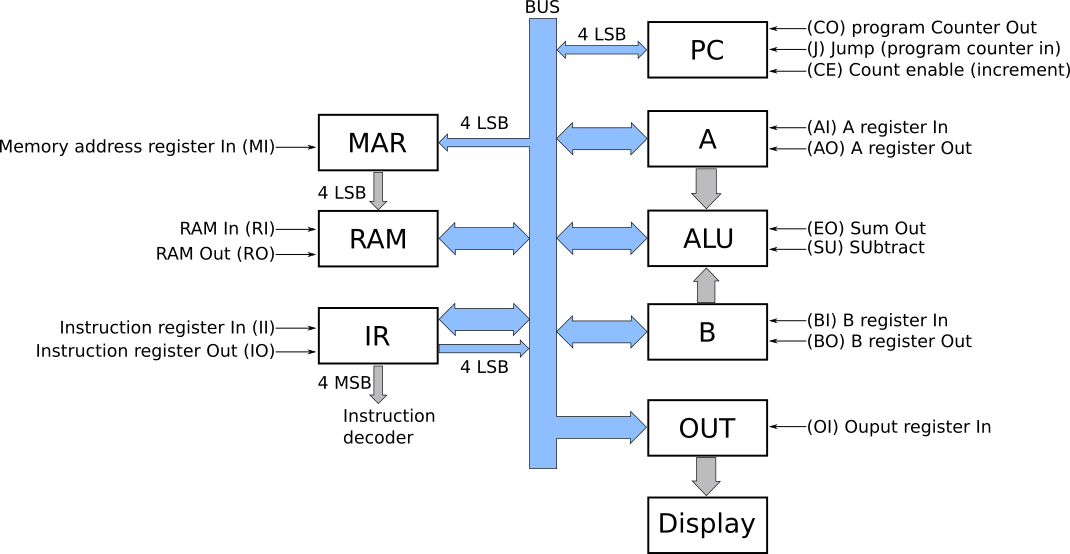
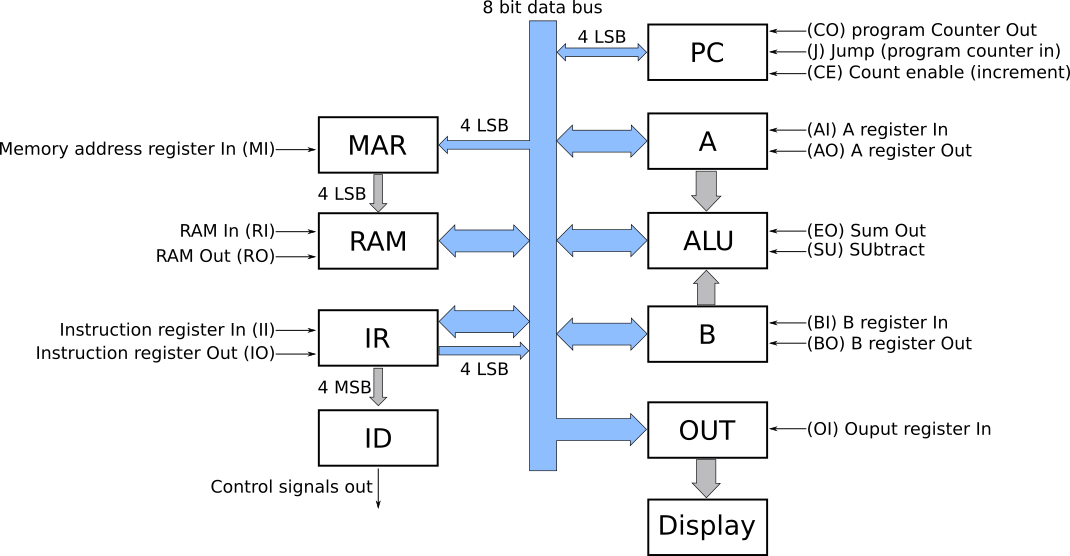
update

diff --git a/content/posts/2021-10-8-bit-breadboard-cpu.md b/content/posts/2021-10-8-bit-breadboard-cpu.md
@@ -6,10 +6,10 @@ draft: true
 
 This month I finally finished building my version of Ben Eater's 8-bit
 breadboard computer. This computer is based on amazing work done by Ben Eater.
-More information about this project you can find on his
-[website](https://eater.net/8bit/). In this blog post I will give you a summary
-of the computer and how it works.  I also describe my experience and some issues
-I faced when building this.  Below is a picture of my build.
+You can find more information about this project on his
+[website](https://eater.net/8bit/). In this blog post I will give you a short summary
+of the computer and how it works in a high level. I also describe my experience and some issues
+I faced when building in the process. Below is a picture of my final build.
 
 ![computer](/cpu/computer.jpg)
 
@@ -23,7 +23,7 @@ troubleshooting.
 You may ask why would you want build something like this? Here are couple of
 things why I got so hooked into this in the first place:
 
-* learn how CPU works on low level,
+* learn how CPU really works,
 * learn about microcode and what it is,
 * learn how binary code is actually executed by the hardware,
 * you will have much better picture of the whole software stack all way to the
@@ -35,24 +35,15 @@ very good project to give a try. You will get much better picture how CPU
 operates in general. Then when you read about more advanced CPU features like
 instruction pipelining, they become easier to grasp. At least that was the case
 for me that this project really helped me to fill the knowledge gaps that I
-didn't fully understand.
+didn't fully understand. That might also be because I am a software developer and
+not a hardware guy.
 
 ## Architecture
 
-TODO: Finish this section
-
 Below is picture of the architecture of
-the computer. Photo is drawn by me but taken from Ben's video.
+the computer and a table of its components and their explanation.
 
 ![Architecture](/cpu/architecture.png)
-
-Architecture of the CPU consist of different parts connected to each other by
-data bus. Data bus is used to transport data between different components.
-Arrows in the picture show the direction the data can move to.  For proper
-operation of the CPU, only one component feed data to the bus and one will read
-it. Orchestrating this is done by `Instruction Decoder` and
-[microcode](https://en.wikipedia.org/wiki/Microcode). Below is table of
-different parts of the computer and their explanation.
 
 | Acronym | Expanded | Explanation |
 |---|---|---|
@@ -64,31 +55,65 @@ different parts of the computer and their explanation.
 | B | B register | 8 bit register to hold the second operand for addition and subtraction.
 | ALU | Arithmetic Logic Unit | Unit doing the addition or subtraction operation with content of A and B registers and put the result back to A register.
 | OUT | Ouput register | 8 bit register to hold value to be displayed by seven-segment display.
+| ID | Instruction Decoder | Decode 4 bit instruction code in IR and control different part of the computer accordingly.
 | Display | -- | Seven-segment display to display numbers.
 
-Full bus connection is 8 bits and
-some components only connect 4 [least
-significant bits (LSB)](https://en.wikipedia.org/wiki/Bit_numbering). These 4
-LSB bits with `Memory Address Register` and `Program Counter` are used for
-addressing the RAM. Four bits from `Instruction Register` are used for
-instruction parameter. Using 4 bits for address means that computer can address
-only 16 bytes of RAM. This RAM needs to contain both program instructions and
-program data.
+Architecture of the computer consist of different components (rectangles) which are connected to each other by
+data bus (blue arrows). Data bus is used to transport binary data between
+different components and arrows signify the direction. Gray arrows are
+interconnections between some of the components and are independent of the data
+bus. On each clock cycle only one component can feed data to the bus and one or
+more read from it. Orchestrating this is crucial for proper operation of the
+computer. This is the job of instruction decoder which will control other
+components when they feed data to bus or read from it. Instruction decoder
+connects to all other components with control signals, which are all small incoming
+arrows to each component in the picture above.
 
+Data bus width is 8 bits and
+some components only connect 4 [Least
+Significant Bits (LSB)](https://en.wikipedia.org/wiki/Bit_numbering) to the data
+bus. These 4 bits with Memory Address Register are used for addressing the
+RAM.  Using only 4 bits for address means that computer can address only 16
+bytes of RAM in total. This amount of RAM needs to contain both program
+instructions and the program data.
 
+Instruction register connects 4 LSB bits back to bus and 4 [Most Significant
+Bits (MSB)](https://en.wikipedia.org/wiki/Bit_numbering) bits to instruction
+decoder. 4 LSB bits are used for instruction parameter and 4 MSB bits are used for
+instruction [opcode](https://en.wikipedia.org/wiki/Opcode) which are loaded to
+instruction decoder. Instruction decoder is responsible of decoding the
+current instruction and controlling other components using the control signals.
 
-This computer has only 4 bits to address the RAM. This means, you only have 16 bytes of
-RAM in total for the program and its data. 
+Instruction decoder behavior is programmed with
+[microcode](https://en.wikipedia.org/wiki/Microcode). Microcode is responsible
+for the logic how instructions are carried out with the available hardware.
+Microcode consist of steps which get executed on following clock cycles after
+currently executed instruction get loaded to the instruction register.  Thus
+meaning that in theory each instruction can take different amount of clock
+cycles to complete. However on this computer all instructions are fixed to be
+executed in 6 clock cycles. On each step microcode will instruct the components
+to do something. For example it can instruct RAM to output current address
+content to the bus and A register to read it from the bus. On next clock cycle
+it could change the RAM address and then on next clock cycle B register loaded
+with pointed value from the RAM. These operations continue until the whole
+instruction functionality is carried out and process begins again with loading a
+new instruction using the program counter.
 
-If you already watched Ben's video series you might notice that status register
-is missing from my build. This is because I ordered the parts for this build
-when that part was not finished yet. Thus I did not have the parts and
-considered my project done already at this point.
+If you have already watched Ben's video series, you might notice that status
+register is missing from my build. This is because I ordered the parts for this
+build when that part of the video series was not done yet. At this point I considered my
+project done already. I might come back to this in the future and
+finish it. What this component allows is use of conditional jump instructions.
+For example jump if not equal to zero.
+
+I know I'm omitting a lot of details here but instead of repeating everything
+here I recommend you to watch Ben's video series instead. A point here is to
+give an overall picture of the architecture.
 
 ## Instructions
 
-Machine instructions are 8 bits long. First four bits are the
-[opcode](https://en.wikipedia.org/wiki/Opcode) and last four are an argument for
+Machine instructions are 8 bits long. First 4 MSB bits are the
+[opcode](https://en.wikipedia.org/wiki/Opcode) and last 4 LSB bits are an argument for
 that instruction. Not all instructions take argument. Below is a table of all
 instructions that computer supports. `XXXX` means that that instruction does not
 take argument and bits does not matter.
@@ -106,7 +131,7 @@ take argument and bits does not matter.
 | HLT | 1111 | XXXX | Halt the computer and stop execution |
 
 With above simple instructions you could for example write a simple program
-that will keep adding 3 in the endless loop.
+that will keep adding 3 in the endless loop. Comments are done with semicolon.
 
 ```
 LDI 0   ;Load 0 to A register
@@ -115,8 +140,10 @@ OUT     ;Display A register value
 JMP 1   ;Jump back to ADD 15 instruction
 ```
 
-To program this we need to program RAM according the table below.
-Execution always starts at address 0.
+To be able to program this, we first need to convert our assembly to binary
+code. This can be done by hand with table above. After the assembly process, the
+program is shown in table below with the associated RAM addresses.  Execution of
+the program in this computer always starts at address 0.
 
 | Address | Value | Instruction |
 |---|---|---|
@@ -129,20 +156,28 @@ Execution always starts at address 0.
 
 Notice we need to set address 15 to have the value used by `ADD 15` instruction.
 Other addresses does not matter because they will never be read. Programming the
-computer is done by manually setting the bits of each address using DIP switches. Below how it looks like when working correctly.
+computer is done by manually setting the bits of each address using DIP
+switches. Below how it looks in action.
 
 ![Add 3 in a loop](/cpu/add3.gif)
 
+This will continue until the value overflows 255 and wraps back to 0. This is
+due the hardware limit of using 8 bit registers.
+
+At the moment computer only supports jump instruction and not conditional jumps.
+This is due to missing status register hardware which is required. This is
+missing from my build which I might add in the future as stated earlier.
+
 ## Power Delivery Problems
 
-Power delivery can be an issue depending on quality of the breadboards you are
-using. Meaning that even you supply 5V to the computer in one side. You will measure
+When doing your build, a power delivery can be an issue depending on the quality of the breadboards you are
+using. Meaning that even when you supply 5V to the computer in one side. You will measure
 around 3.5V on another side. This causes random logic level
 failures like reading signal low even it is supposed to be high, random bit
 flipping when poking the wires and the running program not working
-reliably. This is caused
-by loose connections between the jumper wires and the breadboard connectors.
-Multiply this effect many times and you will get a noticeable voltage drop.
+reliably. This is caused by loose connections between the jumper wires and the
+breadboard connectors. Multiply this effect many times and you will get a
+noticeable voltage drop.
 
 For my build I used the breadboards I ordered online labeled as BB830 brand from
 BusBoard. Which are supposed to be high quality breadboards. Ben also explains about this breadboard in his video
@@ -152,11 +187,12 @@ aligned numbering of columns and not properly labeled rows.
 
 Fortunately this problem is quite easy to fix. You need to replace
 power jumper wire connections with wires soldered on header pins. You can see my
-installation image below.
+installation image below. Each header has two pins going into the breadboard to
+secure a good connection.
 
 ![power lines](/cpu/power-wires.jpg)
 
-The whole computer is surrounded by these soldered lines. With this simple
+The whole computer is surrounded by these soldered power lines. With this simple
 change I was able to rise to voltage levels up to 4.7V from 3.5V. Then I was
 able to run program loop more than 8 hours straight without any issues.
 
@@ -164,14 +200,16 @@ able to run program loop more than 8 hours straight without any issues.
 
 As a software developer I really liked this project and it taught me a lot of
 low level things that I was not fully aware of like CPU design and machine code.
-After this project I can say I have much better picture of the whole software
+After this project I can say I have much better understanding of the whole software
 stack all way to the hardware. Also knowledge gained from this project has been
-enormously helpful when I have studied hardware description language like VHDL
+enormously helpful when I have studied hardware description languages like VHDL
 and reading about low level CPU stuff like CPU design and how it operates.
 
 As a final words I could not recommend this project enough for someone who want
 to know how stuff works at deeper level. Ben's video series is quite amazingly
-done and documented. Also nowadays selling a ready made kit makes the whole
-process getting started so much easier.
+done and documented. One of the best things I have seen on YouTube. On top of
+that he is also nowadays selling a ready made kit that makes the whole process
+getting started so much easier.
 
-And thank you for reading this far!
+And thank you for reading this far! Considered checking me out on GitHub and see
+what other projects I have done.
